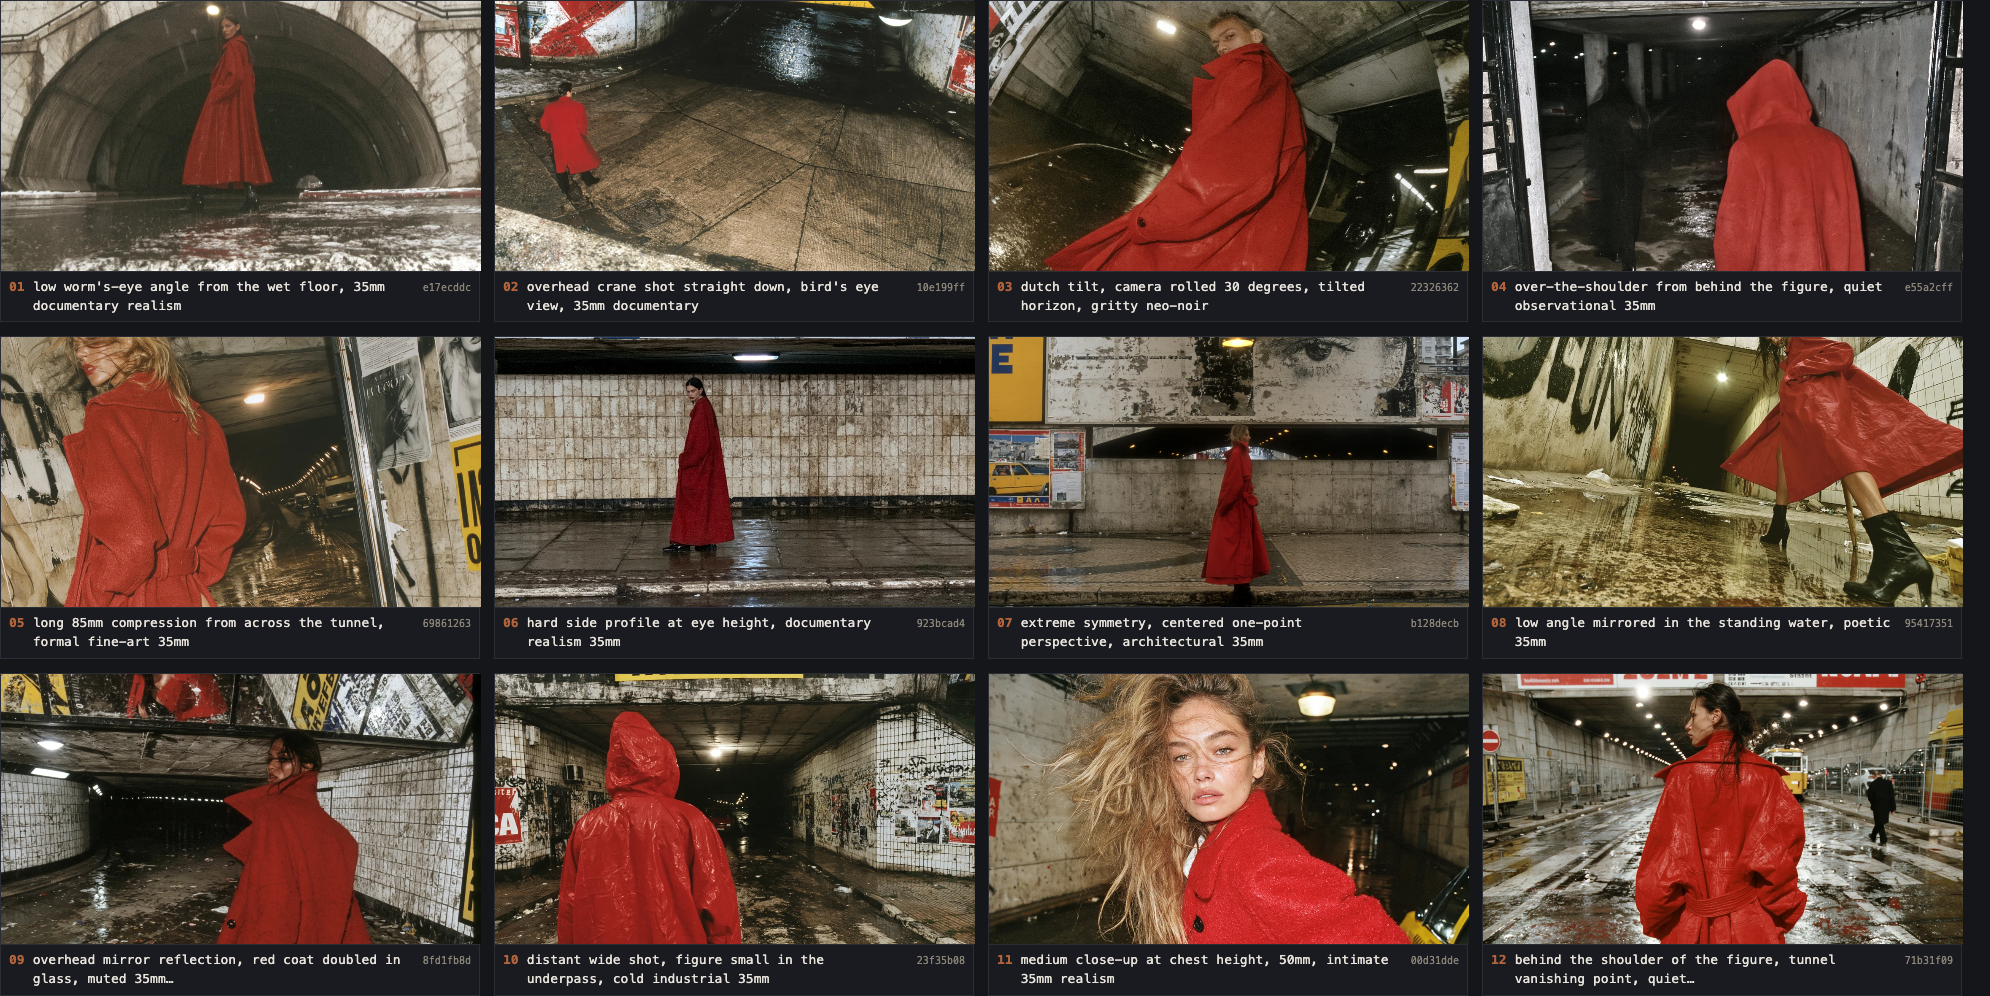
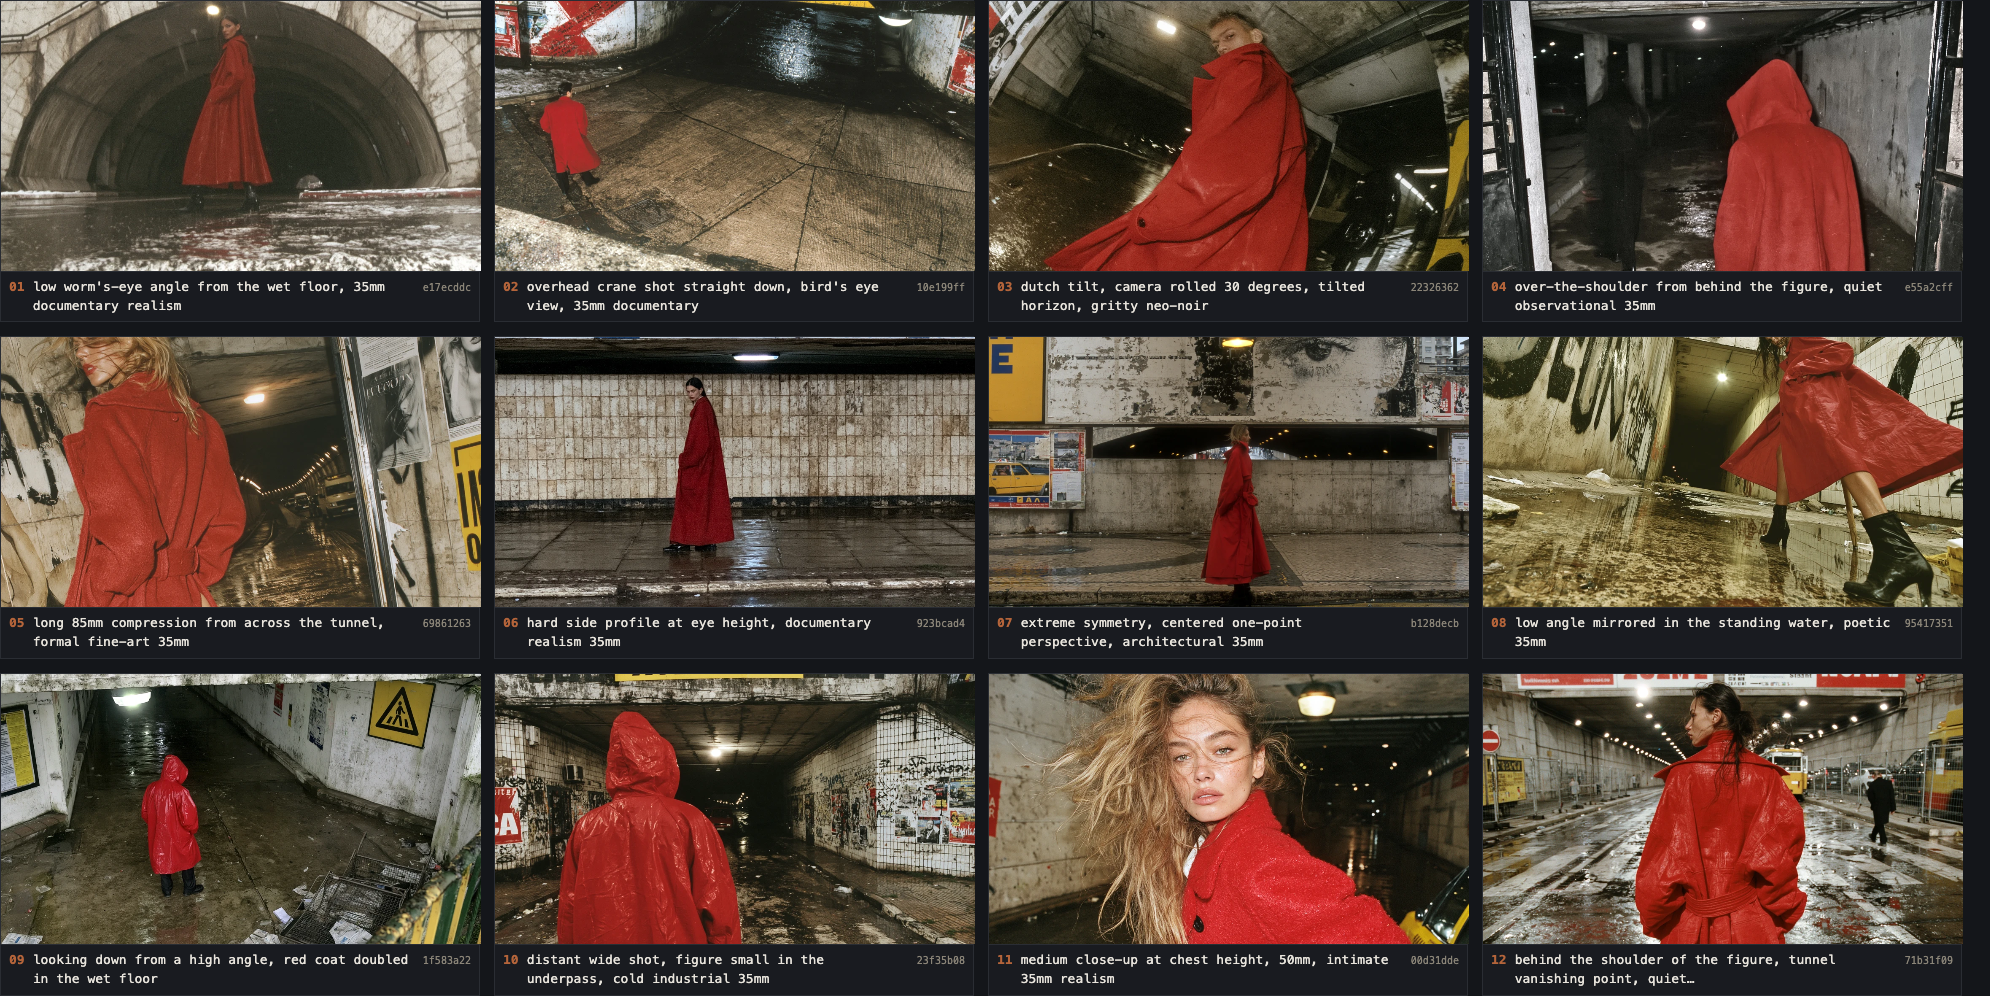
fix(mj-sheets): tile 09's caption claimed an overhead the render never had
The 12-up sheet's variant 09 was captioned "overhead mirror
reflection, red coat doubled in glass" and rendered a frontal shot with
the reflection in a mirrored ceiling — the camera was never overhead.

Rendered every cell of the suspect job (8fd1fb8d) next to a known
overhead tile: none of the four is shot from above. Two automated
instruments (a red-mass profile, CLIP image similarity) each picked a
wrong cell against known ground truth, so the audit stays a look.

Reworded to "looking down from a high angle, red coat doubled in the
wet floor" and re-rendered. The first re-render came back three times
darker than the other eleven tiles: the sheet's jobs carry the
account's profile plus four moodboards, and a new job now inherits the
profile alone. Carrying the profile codes in the prompt text restores
the condition — one --profile flag, all five codes — and the tile lands
back inside the set's band (mean luminance 0.309 against the set's
0.228-0.388).

Shipped tile 09 is cell 3 of 1f583a22; the manifest records the slot
and the tile's own URL names the same cell.

Also: the page's method section now says three angles were re-shot,
the pack header records the reword, and docs/MJ-CONTACT-SHEET.md
documents the case and the rendering condition.

Verified: lib/mj-contact-sheet.test.js 49/49, e2e/mj-sheets.spec.mjs
all checks pass, npm run test:all 0 failures, npm run verify green.

Changed region(s): [[0.0, 0.6536, 0.2492, 0.996]]

diff --git a/pages/mj-sheets.html b/pages/mj-sheets.html
@@ -128,10 +128,12 @@
         the card's text attributed six of the first twelve tiles to the wrong job. Every task
         id on this sheet was re-derived from the feed's own command string, and only plain
         <code>16:9</code> <code>v8.2</code> jobs were accepted.</p>
-      <p style="margin:0"><strong>Two angles were re-shot.</strong> The overhead crane and the
-        dutch tilt first came back as eye-level and level respectively — Midjourney did not
-        follow the instruction. Both prompts were reworded and re-rendered, and both were
-        re-checked against the image before they were accepted.</p>
+      <p style="margin:0"><strong>Three angles were re-shot.</strong> The overhead crane and the
+        dutch tilt first came back as eye-level and level respectively, and the mirrored-ceiling
+        variant came back as a frontal shot with the reflection in the ceiling — Midjourney did
+        not follow the instruction in any of the three. Each prompt was reworded and re-rendered,
+        and every re-render was checked against the image before it was accepted. A job that
+        "succeeded" is not evidence that the angle landed.</p>
     </div>
   </section>
 

diff --git a/AGENTS.md b/AGENTS.md
@@ -6221,3 +6221,105 @@ describe the prompt, not the render (unchanged, not automatable); the
 12 sheet tiles share one style, so the sheet compares camera only;
 woody-shaw chart variants; the `.kai/` durability call; a custom domain
 for the Vercel alias.
+
+### 2026-10-22 — sprint 0.56 (the sheet's worst lie, and the condition its tiles were made under)
+
+**The finding.** The 12-up comparison sheet's variant 09 was captioned
+*overhead mirror reflection, red coat doubled in glass* and rendered a
+frontal shot with the reflection in a mirrored ceiling — the camera was
+never overhead. It survived two audits because a caption that reads
+right is not evidence. Only a look is.
+
+**The pack's own check, done exactly as written.** Render every cell of
+the suspect job and pick the closest one. The job behind tile 09
+(`8fd1fb8d`) has four cells; put all four next to a known-overhead tile
+and ask which is shot from above. The answer was **none of them**.
+
+**Two instruments, two wrong answers.** A red-mass profile (the share of
+red pixels in each third of the frame) called one cell "top-weighted,
+like the known overhead" — it was the wrong cell: in a wet-floor scene
+the red mass is a reflection, and a reflection moves the number without
+moving the camera. CLIP image-to-image similarity ranked an eye-level
+cell closest to the known overhead. Zero-shot CLIP camera-angle
+classification was worse still (~4/12 correct against known ground
+truth). **The sheet's audit is a look, not a measurement** — and that is
+why this entry proposes no automated angle checker: shipping one would
+have put a false confidence in the guard.
+
+**The reword.** `looking down from a high angle, red coat doubled in the
+wet floor` — the new job's cells are genuinely high-angle (verified by
+looking, one cell at a time).
+
+**Then the condition.** The re-render came back **three times darker**
+than the other eleven tiles, and the reason was not the angle. The
+twelve original jobs carried the account's profile **plus four
+moodboards** (`--profile brvazka mhw6dpq xr39csb det21e6 67lkfw3`); a
+job submitted the next day carried `--profile brvazka` only. The
+moodboards are still on the account — the composer's Personalize panel
+no longer expands the profile into them.
+
+A controlled A/B — same prompt, same flags, only the profile codes
+differ:
+
+| job | profile in the command | mean luminance | red pixels |
+|---|---|---|---|
+| the set (11 tiles) | profile + 4 moodboards | 0.23 – 0.39 | 28k – 265k |
+| re-render, composer only | profile | 0.08 – 0.13 | 6k – 14k |
+| re-render, codes typed into the prompt | profile + 4 moodboards | 0.26 – 0.36 | 28k – 265k |
+
+**A typed `--profile` wins cleanly.** The composer still injects its own
+`--profile brvazka`, and the command that reached Midjourney had
+**exactly one** `--profile` — the typed one, with all five codes. No
+duplicate flag, and no need to touch the account's toggle. (`--no-
+personalize` failed to open the panel on this run, and it would have
+left the toggle off; the account was left exactly as found.)
+
+**Decisions:**
+
+- **Ship the re-render (`1f583a22`, cell 3), not the moodboard-less
+  one.** A comparison sheet needs one rendering condition. A tile that is
+  dark because it came from a different account setting is not a
+  comparison — it is a different picture.
+- **The account's style codes stay out of the tracked pack.** They are
+  the account's own identifiers and the pack is tracked. They are
+  readable off any older job's `full_command`; the feed keeps them.
+- **No automated angle checker** — two instruments were tried and both
+  were wrong against known ground truth.
+- **The page's method section now says three, not two.** "Two angles were
+  re-shot" became "Three", with the third case named.
+
+**Also shipped in `106bdc1` (previously unlogged):**
+
+- `docs/MJ-WATCHER.md` — "The account's moodboards apply to every
+  prompt".
+- `e2e/media-set.spec.mjs` — three hardcoded absolute paths (a foreign
+  username's) replaced by a `~/Downloads` glob; the spec now **skips with
+  a reason** instead of failing when fewer than two samples exist.
+- `e2e/repro-vhs.mjs` — resolves its sample from its own location and
+  exits 2 with usage when it is absent.
+
+**Verified:**
+
+- The rebuilt sheet: variant 09 = cell 3 of `1f583a22`, captioned "looking
+  down from a high angle, red coat doubled in the wet floor"; the shipped
+  tile is md5-identical to the cell audited by eye, and its mean
+  luminance (0.309) sits inside the set's band (0.228 – 0.388).
+- The four cells of the final job, one at a time: cell-0 eye level,
+  cell-1 above shoulder height, cell-2 shoulder level, **cell-3 "well
+  above the figure, looking down at them from a high angle"** with the
+  coat "faintly reflected in the wet floor" — both claims of the caption.
+- `node lib/mj-contact-sheet.test.js` — 49/49, including the
+  chain-of-custody guard (caption ↔ clause, task ids, slot ↔ tile URL).
+- `cd e2e && PORT=5180 node mj-sheets.spec.mjs` — every check passes.
+
+**Open:**
+
+- The sheet's tiles were rendered under an account personalization state
+  that new jobs no longer inherit. Re-rendering the pack today needs the
+  codes typed into the prompt (documented in
+  `docs/MJ-CONTACT-SHEET.md`) or the account's panel fixed.
+- MJ captions describe the prompt, not the render. The audit of all
+  twelve tiles found 11 matching; the twelfth is this entry's fix. The
+  audit is a look, not a measurement.
+- Unchanged backlog: woody-shaw chart variants; the `.kai/` durability
+  call; a custom domain for the Vercel alias; the MJ cookie jar expiry.

diff --git a/assets/mural-prompts/red-coat-underpass-12.md b/assets/mural-prompts/red-coat-underpass-12.md
@@ -14,6 +14,13 @@
 > 12 prompts, not the usual 5-10: a 12-up sheet needs twelve, and the file is the
 > pack the shipped comparison sheet was built from
 > (`assets/mj-sheets/red-coat-underpass-12/`).
+>
+> Bullet 09 was reworded on 2026-10-22: its first clause ("overhead mirror
+> reflection, red coat doubled in glass") rendered a frontal shot with the
+> reflection in a mirrored ceiling — the camera was never overhead, and no
+> cell of that job was. The shipped sheet carries the re-rendered job's
+> cell 3, and `docs/MJ-CONTACT-SHEET.md` records how the render was matched
+> to the other eleven tiles' rendering condition.
 
 - a lone figure in a saturated red coat standing three-quarter turned in an empty concrete underpass at night, low worm's-eye angle from the wet floor, 35mm documentary realism, one overhead sodium streetlight as the only key, wet floor catching thin reflections, deep unlit tunnel falling away behind, 35mm lens wide open, fine natural film grain, muted palette, no text --ar 16:9 --s 100 --raw --hd --v 8.2 --no text, watermark, logo
 - a lone figure in a saturated red coat standing three-quarter turned in an empty concrete underpass at night, overhead crane shot straight down, bird's eye view, 35mm documentary, one overhead sodium streetlight as the only key, wet floor catching thin reflections, deep unlit tunnel falling away behind, 35mm lens wide open, fine natural film grain, muted palette, no text --ar 16:9 --s 100 --raw --hd --v 8.2 --no text, watermark, logo
@@ -23,7 +30,7 @@
 - a lone figure in a saturated red coat standing three-quarter turned in an empty concrete underpass at night, hard side profile at eye height, documentary realism 35mm, one overhead sodium streetlight as the only key, wet floor catching thin reflections, deep unlit tunnel falling away behind, 35mm lens wide open, fine natural film grain, muted palette, no text --ar 16:9 --s 100 --raw --hd --v 8.2 --no text, watermark, logo
 - a lone figure in a saturated red coat standing three-quarter turned in an empty concrete underpass at night, extreme symmetry, centered one-point perspective, architectural 35mm, one overhead sodium streetlight as the only key, wet floor catching thin reflections, deep unlit tunnel falling away behind, 35mm lens wide open, fine natural film grain, muted palette, no text --ar 16:9 --s 100 --raw --hd --v 8.2 --no text, watermark, logo
 - a lone figure in a saturated red coat standing three-quarter turned in an empty concrete underpass at night, low angle mirrored in the standing water, poetic 35mm, one overhead sodium streetlight as the only key, wet floor catching thin reflections, deep unlit tunnel falling away behind, 35mm lens wide open, fine natural film grain, muted palette, no text --ar 16:9 --s 100 --raw --hd --v 8.2 --no text, watermark, logo
-- a lone figure in a saturated red coat standing three-quarter turned in an empty concrete underpass at night, overhead mirror reflection, red coat doubled in glass, muted 35mm documentary, one overhead sodium streetlight as the only key, wet floor catching thin reflections, deep unlit tunnel falling away behind, 35mm lens wide open, fine natural film grain, muted palette, no text --ar 16:9 --s 100 --raw --hd --v 8.2 --no text, watermark, logo
+- a lone figure in a saturated red coat standing three-quarter turned in an empty concrete underpass at night, looking down from a high angle, red coat doubled in the wet floor, one overhead sodium streetlight as the only key, wet floor catching thin reflections, deep unlit tunnel falling away behind, 35mm lens wide open, fine natural film grain, muted palette, no text --ar 16:9 --s 100 --raw --hd --v 8.2 --no text, watermark, logo
 - a lone figure in a saturated red coat standing three-quarter turned in an empty concrete underpass at night, distant wide shot, figure small in the underpass, cold industrial 35mm, one overhead sodium streetlight as the only key, wet floor catching thin reflections, deep unlit tunnel falling away behind, 35mm lens wide open, fine natural film grain, muted palette, no text --ar 16:9 --s 100 --raw --hd --v 8.2 --no text, watermark, logo
 - a lone figure in a saturated red coat standing three-quarter turned in an empty concrete underpass at night, medium close-up at chest height, 50mm, intimate 35mm realism, one overhead sodium streetlight as the only key, wet floor catching thin reflections, deep unlit tunnel falling away behind, 35mm lens wide open, fine natural film grain, muted palette, no text --ar 16:9 --s 100 --raw --hd --v 8.2 --no text, watermark, logo
 - a lone figure in a saturated red coat standing three-quarter turned in an empty concrete underpass at night, behind the shoulder of the figure, tunnel vanishing point, quiet Japanese 35mm realism, one overhead sodium streetlight as the only key, wet floor catching thin reflections, deep unlit tunnel falling away behind, 35mm lens wide open, fine natural film grain, muted palette, no text --ar 16:9 --s 100 --raw --hd --v 8.2 --no text, watermark, logo

diff --git a/docs/MJ-CONTACT-SHEET.md b/docs/MJ-CONTACT-SHEET.md
@@ -184,6 +184,75 @@ Rewording helped both, and the rewrites are what shipped:
 suspect job and pick the closest one; if no cell is close, reword and
 re-render. A job that "succeeded" is not evidence that the angle landed.
 
+### The third case: a caption that lies about the camera
+
+Variant 09 was the shipped sheet's worst lie, and it survived two
+audits before anyone looked. Its caption read *overhead mirror
+reflection, red coat doubled in glass*; the tile was a frontal shot
+with the reflection in a mirrored ceiling. The camera was never
+overhead.
+
+The pack's own check is the first step, and it is worth doing exactly
+as written — render **every** cell of the suspect job and pick the
+closest one:
+
+- the job behind tile 09 (`8fd1fb8d`) has four cells;
+- put all four next to a **known-overhead** tile and ask which one is
+  shot from above;
+- the answer was *none of them*.
+
+Measured geometry is not a substitute for that look. A red-mass
+profile (the share of red pixels in each third of the frame) called
+one cell "top-weighted, like the known overhead" — it was the
+wrong cell. The red mass in a wet-floor scene is a reflection, and a
+reflection moves the number without moving the camera. CLIP
+image-to-image similarity is no better: ranked against the known
+overhead tile it put an eye-level cell first. Two instruments, two
+wrong answers, one lesson — **the sheet's audit is a look, not a
+measurement.**
+
+So: reword, re-render. `looking down from a high angle, red coat
+doubled in the wet floor` delivered high-angle cells (verified by
+looking, one cell at a time).
+
+### The condition the tiles were rendered under
+
+The re-render came back **three times darker** than the other eleven
+tiles, and the reason was not the angle. The twelve original jobs
+carried the account's profile **plus four moodboards**
+(`--profile brvazka mhw6dpq xr39csb det21e6 67lkfw3`); a job
+submitted the next day carried `--profile brvazka` only. The
+moodboards are still on the account — the composer's Personalize
+panel just no longer expands the profile into them, so a new job
+inherits the profile and nothing else.
+
+A controlled A/B settles it: the same reworded prompt, the same
+flags, the profile codes typed into the prompt text instead of
+injected by the composer.
+
+| job | profile in the command | mean luminance | red pixels |
+|---|---|---|---|
+| original set (11 tiles) | profile + 4 moodboards | 0.23 – 0.39 | 28k – 265k |
+| re-render, composer only | profile | 0.08 – 0.13 | 6k – 14k |
+| re-render, codes in the prompt | profile + 4 moodboards | 0.26 – 0.36 | 28k – 265k |
+
+Two things follow.
+
+**A typed `--profile` wins cleanly.** The composer still injects its
+own `--profile brvazka` when the prompt carries one, and the command
+that reached Midjourney had **exactly one** `--profile` — the typed
+one, with all five codes. No duplicate flag, no need to touch the
+account's toggle. (The account's style codes are deliberately **not**
+written into the pack: they are the account's own identifiers, and
+the pack is tracked. Read them off any older job's `full_command`
+instead — the feed keeps them.)
+
+**A comparison sheet needs one rendering condition.** The shipped
+tiles were all rendered under the profile and its moodboards; the
+re-render was matched to them. A tile that is dark because it came
+from a different account setting is not a comparison, it is a
+different picture.
+
 ---
 
 ## The shipped example
@@ -209,6 +278,10 @@ than twelve unrelated pictures.
 The pack lives at `assets/mural-prompts/red-coat-underpass-12.md`
 (12 prompts — an exception to the 5–10-per-file convention, noted in the
 pack header).
+
+Eleven tiles are cell 0 of their job. **Variant 09 is cell 3 of
+`1f583a22`** — the re-render described above; the manifest records the
+slot, and the tile's own URL names the same cell.
 
 ---
 
